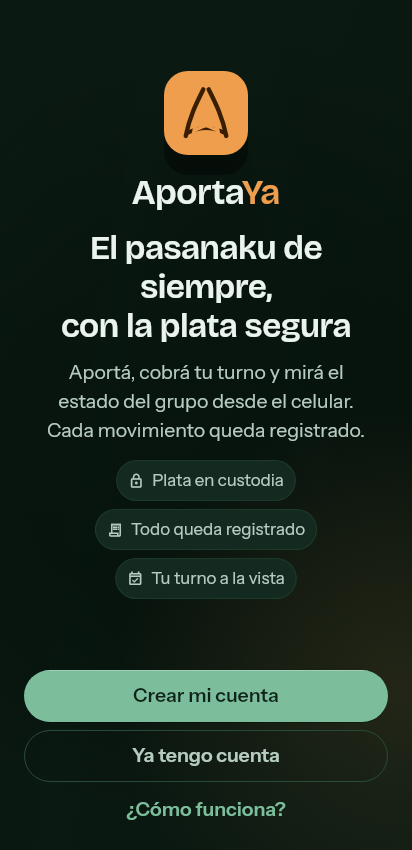
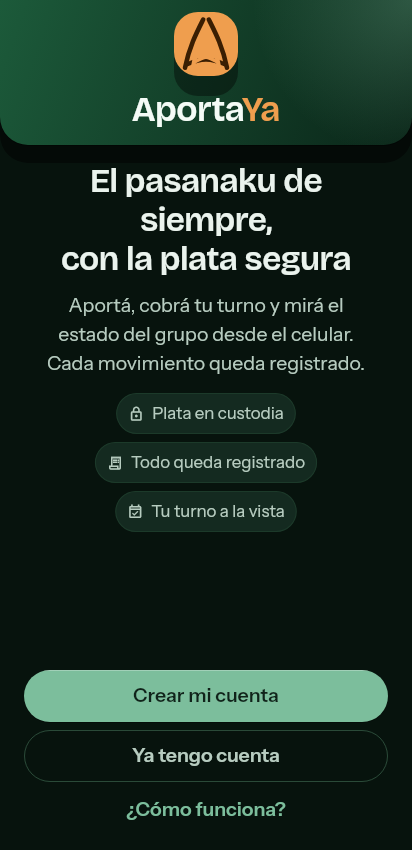
feat(movil): portada con banda de marca a sangre (H6.S3.M1 parcial)
El verde del saldo abre la app: banda con sello y palabra, promesa y garantías debajo. 6 goldens
mirados.

Claude-Session: https://claude.ai/code/session_018refghVt4jVVUoVAevgYia

diff --git a/apps/movil/lib/pantallas/identidad/pantalla_portada.dart b/apps/movil/lib/pantallas/identidad/pantalla_portada.dart
@@ -1,14 +1,12 @@
 import 'package:aportaya_diseno/atomos/boton.dart';
 import 'package:aportaya_diseno/atomos/boton_variante.dart';
-import 'package:aportaya_diseno/atomos/marca.dart';
 import 'package:aportaya_diseno/atomos/movimiento.dart';
-import 'package:aportaya_diseno/atomos/palabra_de_marca.dart';
 import 'package:aportaya_diseno/moleculas/aparicion_escalonada.dart';
-import 'package:aportaya_diseno/moviles/fondo_de_marca.dart';
 import 'package:aportaya_diseno/tokens/tokens.dart';
 import 'package:flutter/material.dart';
 import 'package:go_router/go_router.dart';
 
+import 'banda_de_marca.dart';
 import 'garantias_de_portada.dart';
 import 'textos.dart';
 
@@ -30,107 +28,83 @@ class PantallaDePortada extends StatelessWidget {
   @override
   Widget build(BuildContext context) {
     final t = Tokens.of(context);
-    return FondoDeMarca(
-      hijo: Scaffold(
-        backgroundColor: Colors.transparent,
-        body: SafeArea(
-          child: Padding(
-            padding: const EdgeInsets.symmetric(horizontal: Espacio.s5),
-            child: Column(
-              crossAxisAlignment: CrossAxisAlignment.stretch,
-              children: [
-                Expanded(
-                  child: Center(
-                    child: SingleChildScrollView(
-                      child: AparicionEscalonada(
-                        escalon: Movimiento.escalonDePortada,
-                        duracionPorHijo: Movimiento.entradaDePortada,
+    const lateral = EdgeInsets.symmetric(horizontal: Espacio.s5);
+    return Scaffold(
+      body: Column(
+        crossAxisAlignment: CrossAxisAlignment.stretch,
+        children: [
+          Expanded(
+            // Arriba, no centrado: la banda de marca tiene que tocar el borde superior.
+            child: Align(
+              alignment: Alignment.topCenter,
+              child: SingleChildScrollView(
+                child: AparicionEscalonada(
+                  escalon: Movimiento.escalonDePortada,
+                  duracionPorHijo: Movimiento.entradaDePortada,
+                  children: [
+                    // La banda de marca va a sangre, detrás de la barra de estado (ADR-053).
+                    KeyedSubtree(
+                      key: const ValueKey('portada-marca'),
+                      child: BandaDeMarca(t: t),
+                    ),
+                    Padding(
+                      key: const ValueKey('portada-titular'),
+                      padding: lateral,
+                      child: Column(
                         children: [
-                          Center(
-                            key: const ValueKey('portada-marca'),
-                            child: _Lockup(t: t),
+                          const SizedBox(height: Espacio.s4),
+                          Semantics(
+                            header: true,
+                            child: Text(
+                              TextosIdentidad.bienvenidaTitulo,
+                              textAlign: TextAlign.center,
+                              style: Tipo.titulo1.copyWith(color: t.text),
+                            ),
                           ),
-                          Column(
-                            key: const ValueKey('portada-titular'),
-                            children: [
-                              const SizedBox(height: Espacio.s4),
-                              Semantics(
-                                header: true,
-                                child: Text(
-                                  TextosIdentidad.bienvenidaTitulo,
-                                  textAlign: TextAlign.center,
-                                  style: Tipo.titulo1.copyWith(color: t.text),
-                                ),
-                              ),
-                              const SizedBox(height: Espacio.s3),
-                              Center(
-                                child: ConstrainedBox(
-                                  constraints: const BoxConstraints(
-                                    maxWidth: 320,
-                                  ),
-                                  child: Text(
-                                    TextosIdentidad.bienvenidaTexto,
-                                    textAlign: TextAlign.center,
-                                    style: Tipo.cuerpo.copyWith(color: t.text2),
-                                  ),
-                                ),
-                              ),
-                              const SizedBox(height: Espacio.s4),
-                            ],
+                          const SizedBox(height: Espacio.s3),
+                          ConstrainedBox(
+                            constraints: const BoxConstraints(maxWidth: 320),
+                            child: Text(
+                              TextosIdentidad.bienvenidaTexto,
+                              textAlign: TextAlign.center,
+                              style: Tipo.cuerpo.copyWith(color: t.text2),
+                            ),
                           ),
-                          const KeyedSubtree(
-                            key: ValueKey('portada-garantias'),
-                            child: GarantiasDePortada(),
-                          ),
+                          const SizedBox(height: Espacio.s4),
                         ],
                       ),
                     ),
-                  ),
-                ),
-                AparicionEscalonada(
-                  escalon: Duration.zero,
-                  duracionPorHijo: Movimiento.entradaDePortada,
-                  demoraInicial: Movimiento.escalonDePortada * 3,
-                  children: const [
-                    KeyedSubtree(
-                      key: ValueKey('portada-botones'),
-                      child: _Salidas(),
+                    const Padding(
+                      key: ValueKey('portada-garantias'),
+                      padding: lateral,
+                      child: GarantiasDePortada(),
                     ),
                   ],
                 ),
-              ],
+              ),
             ),
           ),
-        ),
+          SafeArea(
+            top: false,
+            child: Padding(
+              padding: lateral,
+              child: AparicionEscalonada(
+                escalon: Duration.zero,
+                duracionPorHijo: Movimiento.entradaDePortada,
+                demoraInicial: Movimiento.escalonDePortada * 3,
+                children: const [
+                  KeyedSubtree(
+                    key: ValueKey('portada-botones'),
+                    child: _Salidas(),
+                  ),
+                ],
+              ),
+            ),
+          ),
+        ],
       ),
     );
   }
-}
-
-/// La marca sobre su sello de acción y, debajo, la palabra. Mantiene la forma del
-/// lockup original sin sumar el verde de marca como segundo acento de la pantalla.
-class _Lockup extends StatelessWidget {
-  const _Lockup({required this.t});
-  final Tokens t;
-
-  @override
-  Widget build(BuildContext context) => Column(
-    mainAxisSize: MainAxisSize.min,
-    children: [
-      Container(
-        width: 84,
-        height: 84,
-        decoration: BoxDecoration(
-          color: t.accent,
-          borderRadius: BorderRadius.circular(Radios.xl),
-          boxShadow: [t.sombra3],
-        ),
-        child: Center(child: Marca(tamano: 54, colorDelTrazo: t.accentInk)),
-      ),
-      const SizedBox(height: Espacio.s4),
-      PalabraDeMarca(ancho: 148, color: t.text),
-    ],
-  );
 }
 
 class _Salidas extends StatelessWidget {

diff --git a/apps/movil/lib/pantallas/identidad/banda_de_marca.dart b/apps/movil/lib/pantallas/identidad/banda_de_marca.dart
@@ -1,0 +1,69 @@
+import 'package:aportaya_diseno/atomos/marca.dart';
+import 'package:aportaya_diseno/atomos/palabra_de_marca.dart';
+import 'package:aportaya_diseno/tokens/tokens.dart';
+import 'package:flutter/material.dart';
+
+/// El verde del saldo como banda de entrada, con la marca sobre su sello de acción y la
+/// palabra en claro. Es lo primero que se ve de AportaYa: la misma tarjeta protagonista
+/// de la app, a lo ancho.
+class BandaDeMarca extends StatelessWidget {
+  const BandaDeMarca({super.key, required this.t});
+  final Tokens t;
+
+  @override
+  Widget build(BuildContext context) {
+    final arriba = MediaQuery.paddingOf(context).top;
+    const redondeo = BorderRadius.vertical(bottom: Radius.circular(Radios.xxl));
+    return DecoratedBox(
+      decoration: BoxDecoration(
+        borderRadius: redondeo,
+        gradient: LinearGradient(
+          begin: Alignment.topLeft,
+          end: Alignment.bottomRight,
+          colors: [t.heroInicio, t.heroFin],
+        ),
+        boxShadow: Elevacion.heroe(t),
+      ),
+      child: DecoratedBox(
+        decoration: BoxDecoration(
+          borderRadius: redondeo,
+          gradient: RadialGradient(
+            center: Alignment.topRight,
+            radius: 1.1,
+            colors: [t.heroBrillo, t.heroBrillo.withValues(alpha: 0)],
+          ),
+        ),
+        child: Padding(
+          padding: EdgeInsets.fromLTRB(
+            Espacio.s5,
+            arriba + Espacio.s3,
+            Espacio.s5,
+            Espacio.s4,
+          ),
+          child: Column(
+            mainAxisSize: MainAxisSize.min,
+            children: [
+              Container(
+                width: Espacio.s7 + Espacio.s4,
+                height: Espacio.s7 + Espacio.s4,
+                decoration: BoxDecoration(
+                  color: t.accent,
+                  borderRadius: BorderRadius.circular(Radios.xl),
+                  boxShadow: [t.sombra3],
+                ),
+                child: Center(
+                  child: Marca(
+                    tamano: Espacio.s7 + Espacio.s2,
+                    colorDelTrazo: t.accentInk,
+                  ),
+                ),
+              ),
+              const SizedBox(height: Espacio.s3),
+              PalabraDeMarca(ancho: 148, color: t.heroTexto),
+            ],
+          ),
+        ),
+      ),
+    );
+  }
+}

diff --git a/docs/trabajo/2026-10-21-rediseno-bancario/PLAN.md b/docs/trabajo/2026-10-21-rediseno-bancario/PLAN.md
@@ -449,7 +449,7 @@ Cada microtarea de pantalla tiene el **mismo DoD**:
 ### H6.S3 — Entrada, alta y KYC
 | ID | Pantalla | Cambios clave | Estado |
 |---|---|---|---|
-| H6.S3.M1 | `/portada` | Héroe de marca, promesa en una línea (`copywriting`) y CTA claro | TODO |
+| H6.S3.M1 | `/portada` | Héroe de marca, promesa en una línea (`copywriting`) y CTA claro | A MEDIAS (anda: banda verde de marca a sangre con el sello y la palabra, promesa y garantías, puertas abajo; falta: mostrar la tarjeta héroe como vista previa, revisar el copy con `copywriting` y el recorrido web) |
 | H6.S3.M2 | `/tour` (4) | Ilustraciones reestilizadas, indicador de puntos con resorte y texto por beneficio | TODO |
 | H6.S3.M3 | `/ingreso`, `/identidad/mfa` | Campos nuevos, biometría como botón destacado y OTP en celdas | A MEDIAS (anda: ingreso con banda de marca verde, logo, saludo y titular que se corre con el teclado; falta: MFA con celdas nuevas y biometría como botón destacado) |
 | H6.S3.M4 | `/registro` (6 pasos) | Fricción mínima según `signup`, progreso visible y ayuda en contexto | TODO |
